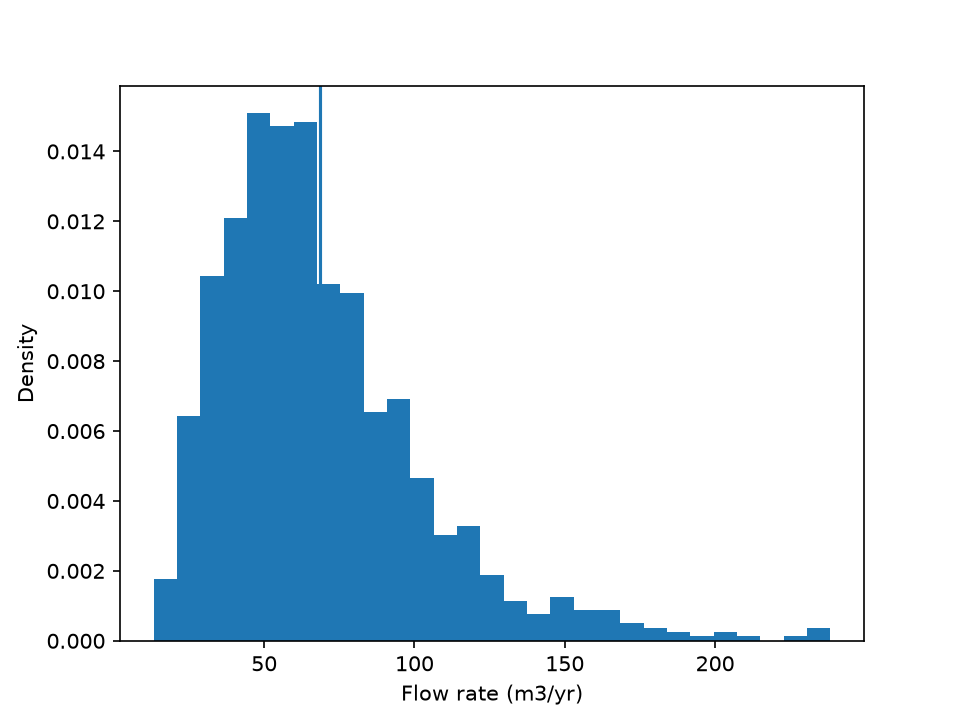
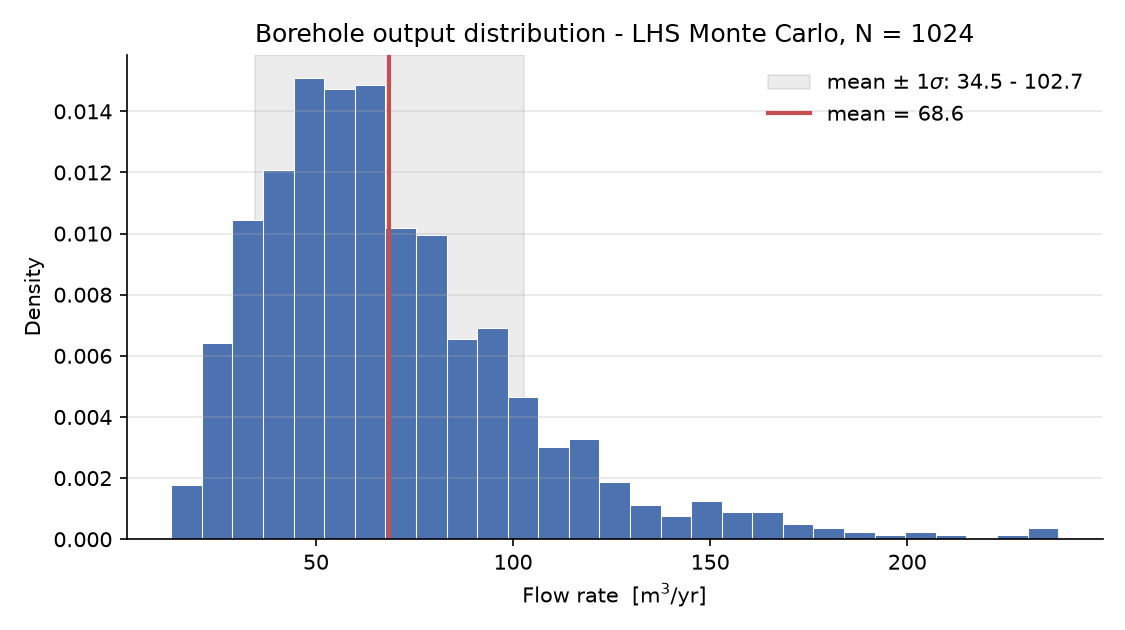
update histogram

Changed region(s): [[0.0, 0.0302, 0.9688, 0.9952]]

diff --git a/assignment.py b/assignment.py
@@ -17,6 +17,7 @@ h_l = uniform(loc=700, scale=820-700)
 l = uniform(loc=1120, scale=1680-1120)
 k_w = norm(loc=10000, scale=1500)
 
+# Monte Carlo Sampling
 N = 2**10  # Monte Carlo samples
 seed = 1234
 sampler = qmc.LatinHypercube(d=m, seed=seed)
@@ -34,12 +35,25 @@ X_kw = k_w.ppf(sample[:, 7])
 X = np.stack([X_rw, X_r, X_tu, X_hu, X_tl, X_hl, X_l, X_kw], axis=1)
 Y = func(X)
 
+# Statistical parameters
 print("Mean of f(x):",Y.mean())
 print("Standard deviation of f(x)",Y.std(ddof=1))
 print("Variance of f(x)",Y.var(ddof=1))    
 
-plt.hist(Y, bins='auto', density=True)
-plt.axvline(x=Y.mean())
-plt.xlabel('Flow rate (m3/yr)')
-plt.ylabel('Density')
-plt.savefig('histogram.png', dpi=150)
+# Histogram of Y density
+fig, ax = plt.subplots(figsize=(7.5, 4.2))
+ax.hist(Y, bins='auto', density=True,
+        color='#4C72B0', edgecolor='white', linewidth=0.5)
+std = Y.std(ddof=1)
+ax.axvspan(Y.mean() - std, Y.mean() + std, color='grey', alpha=0.15, zorder=0,
+           label=rf'mean $\pm$ 1$\sigma$: {Y.mean()-std:.1f} - {Y.mean()+std:.1f}')
+ax.axvline(Y.mean(), color='#C44E52', lw=2,
+           label=f'mean = {Y.mean():.1f}')
+ax.set_xlabel('Flow rate  [m$^3$/yr]')
+ax.set_ylabel('Density')
+ax.set_title(f'Borehole output distribution - LHS Monte Carlo, N = {N}')
+ax.legend(frameon=False)
+ax.grid(axis='y', alpha=0.3)
+ax.spines[['top', 'right']].set_visible(False)
+fig.tight_layout()
+fig.savefig('histogram.png', dpi=150)
